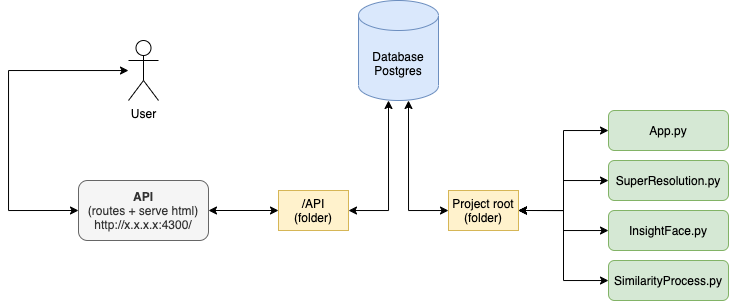
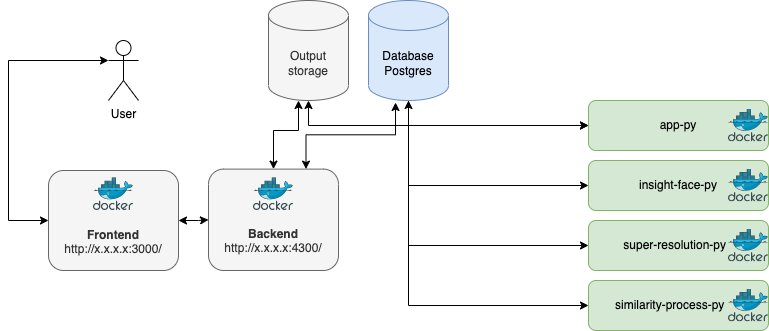
updating documentation

diff --git a/README.md b/README.md
@@ -57,26 +57,25 @@ Table of contents
     * [Storage configuration](#7-configure-storage)
     * [Run apps](#8-run)
 * [Update to the latest version](#updating-to-the-latest-version)
+* [Process drawing](#process-drawing)
+* [Project folder structure](#project-folder-structure)
+* [Python Apps](#python-apps)
+      * [App.py](#app)
+      * [StreamGrab.py](#streamgrab)
+      * [SuperResolution.py](#superresolution)
+      * [InsightFace.py](#insightface)
+      * [SimilarityProcess.py](#similarityprocess)
+* [Config ini](#config-ini)
 * [Installing manually](#installing-manually)
     * [Api side](#api-side)
     * [Build react front end](#build-react-front-end)
     * [Python side (Windows)](#python-side)
-* [Process drawing](#process-drawing)
-* [Project folder structure](#project-folder-structure)
-* [Python Apps](#python-apps)
-    * [App.py](#app)
-    * [StreamGrab.py](#streamgrab)
-    * [SuperResolution.py](#superresolution)
-    * [InsightFace.py](#insightface)
-    * [SimilarityProcess.py](#similarityprocess)
-* [Config ini](#config-ini)
 * [Multi node support](#multi-node-support)
 * [Cuda GPU Support](#cuda-gpu-support)
 * [Postgresql notes](#postgresql-notes)
 * [Openalpr notes](#openalpr-notes)
 * [Front end development](#front-end-development)
 * [Troubleshooting](#troubleshooting)
-* [Todo](#todo)
 * [Authors](#authors)
 * [License](#license)
 
@@ -84,7 +83,8 @@ Environment
 ============
 
 Everything can be installed on one server or to separate servers meaning that database is at server one, python
-application at server two and api hosting at server three.
+application at server two and api hosting at server three. Processes must have access to output storage containing 
+processed image result files.
 
 ![Environment](docs/environment.png)
 
@@ -173,88 +173,6 @@ docker-compose up
 ```
 
 
-
-Installing manually
-============
-
-Terminology for words like API side and Python side:
-
-* "API Side" is `/api` folder containing node api process `intelligence.js`.
-* "Python side" is `/python` folder containing different python processes.
-
-See [Project folder structure](#project-folder-structure)  for more details about folders.
-
-API side
------
-
-1. Go to `/api` folder and run `npm install`
-2. Install PostgreSQL server: https://www.postgresql.org/
-    * Accessing postgres you need to find tool like pgAdmin which comes with postgres, command line or some IDE having
-      db tools.
-3. Rename `.env_tpl` to `.env` and fill details.
-4. Run `intelligence-tasks.js` or with PM2 process manager `pm2 start intelligence-tasks.js`.
-5. Run `node intelligence.js` or with PM2 process manager `pm2 start intelligence.js -i 2`.
-6. Running these NodeJS scripts will create database and table structures, if you see error run it again.
-7. Go to `/front-end` folder and rename `.env_tpl` to `.env`.
-8. At `/front-end` run `npm start` so you have both api and front end running.
-9. Access `localhost:3000` if react app doesn't open browser window automatically.
-10. Outdated frontend user manual for old ui
-    version https://docs.google.com/document/d/1BwjXO0tUM9aemt1zNzofSY-DKeno321zeqpcmPI-wEw/edit?usp=sharing
-
-Build react front end
------
-
-1. Go to `/front-end`
-2. Check your `.env` REACT_APP_API_BASE_URL that it corresponds your machine ip address where node js api is running.
-3. Build react front end via running `npm run build`
-4. Copy/replace `/build` folder contents somewhere to serve build webpage if you want.
-
-Python side
------
-(Windows)
-
-1. Download Python 3.6 ( https://www.python.org/ftp/python/3.6.0/python-3.6.0-amd64.exe )
-    * Only tested to work with Python 3.6. Newer ones caused problems with packages when tested.
-2. Jump to `/python` folder
-3. Activate python virtual env.
-   ```shell script
-   .\venv\Scripts\activate.bat
-   ```
-4. Install dependencies `pip install -r requirements_windows.txt`
-5. Get models using these instruction https://github.com/norkator/open-intelligence/wiki/Models
-6. Download PostgreSQL server ( https://www.postgresql.org/ ) I am using version <b>11.6</b> but its also tested with
-   version 12. (if you didn't install at upper api section)
-7. Rename `config.ini.tpl` to `config.ini` and fill details.
-    * Config.ini content settings explained, see [Config ini](#config-ini)
-    * For multiple nodes, see [Multi node support](#multi-node-support))
-8. Ensure you have `Microsoft Visual C++ 2015 Redistributable (x64)` installed.
-    * This is needed by openALPR
-9. Separate camera and folder names with comma just like at base config template
-10. Run wanted python apps, see `Python Apps` section.
-
-It's critical to setup ini configuration right.
-
-
-Python side
------
-(Linux)
-
-1. Install required Python version.
-    ```shell script
-    sudo add-apt-repository ppa:deadsnakes/ppa
-    sudo apt-get install python3.6
-    virtualenv --python=/usr/bin/python3.6 ./
-   source ./bin/activate
-    ```
-2. Install dependencies `pip install -r requirements_linux.txt`
-3. Get models using these instruction https://github.com/norkator/open-intelligence/wiki/Models
-4. Download PostgreSQL server ( https://www.postgresql.org/ ) I am using version <b>11.6</b> but its also tested with
-   version 12. (if you didn't install at upper api section)
-5. Rename `config.ini.tpl` to `config.ini` and fill details.
-    * Config.ini content settings explained, see [Config ini](#config-ini)
-    * For multiple nodes, see [Multi node support](#multi-node-support))
-6. Separate camera and folder names with comma just like at base config template
-7. Run wanted python apps, see `Python Apps` section.
 
 Process drawing
 ============
@@ -367,6 +285,92 @@ cv2_imshow_enabled=True
 Other parameters are case specific.
 
 
+
+Installing manually
+============
+This is no longer recommended. Using docker method is much better.
+
+Terminology for words like API side and Python side:
+
+* "API Side" is `/api` folder containing node api process `intelligence.js`.
+* "Python side" is `/python` folder containing different python processes.
+
+See [Project folder structure](#project-folder-structure)  for more details about folders.
+
+API side
+-----
+
+1. Go to `/api` folder and run `npm install`
+2. Install PostgreSQL server: https://www.postgresql.org/
+    * Accessing postgres you need to find tool like pgAdmin which comes with postgres, command line or some IDE having
+      db tools.
+3. Rename `.env_tpl` to `.env` and fill details.
+4. Run `intelligence-tasks.js` or with PM2 process manager `pm2 start intelligence-tasks.js`.
+5. Run `node intelligence.js` or with PM2 process manager `pm2 start intelligence.js -i 2`.
+6. Running these NodeJS scripts will create database and table structures, if you see error run it again.
+7. Go to `/front-end` folder and rename `.env_tpl` to `.env`.
+8. At `/front-end` run `npm start` so you have both api and front end running.
+9. Access `localhost:3000` if react app doesn't open browser window automatically.
+10. Outdated frontend user manual for old ui
+    version https://docs.google.com/document/d/1BwjXO0tUM9aemt1zNzofSY-DKeno321zeqpcmPI-wEw/edit?usp=sharing
+
+Build react front end
+-----
+
+1. Go to `/front-end`
+2. Check your `.env` REACT_APP_API_BASE_URL that it corresponds your machine ip address where node js api is running.
+3. Build react front end via running `npm run build`
+4. Copy/replace `/build` folder contents somewhere to serve build webpage if you want.
+
+Python side
+-----
+(Windows)
+
+1. Download Python 3.6 ( https://www.python.org/ftp/python/3.6.0/python-3.6.0-amd64.exe )
+    * Only tested to work with Python 3.6. Newer ones caused problems with packages when tested.
+2. Jump to `/python` folder
+3. Activate python virtual env.
+   ```shell script
+   .\venv\Scripts\activate.bat
+   ```
+4. Install dependencies `pip install -r requirements_windows.txt`
+5. Get models using these instruction https://github.com/norkator/open-intelligence/wiki/Models
+6. Download PostgreSQL server ( https://www.postgresql.org/ ) I am using version <b>11.6</b> but its also tested with
+   version 12. (if you didn't install at upper api section)
+7. Rename `config.ini.tpl` to `config.ini` and fill details.
+    * Config.ini content settings explained, see [Config ini](#config-ini)
+    * For multiple nodes, see [Multi node support](#multi-node-support))
+8. Ensure you have `Microsoft Visual C++ 2015 Redistributable (x64)` installed.
+    * This is needed by openALPR
+9. Separate camera and folder names with comma just like at base config template
+10. Run wanted python apps, see `Python Apps` section.
+
+It's critical to setup ini configuration right.
+
+
+Python side
+-----
+(Linux)
+
+1. Install required Python version.
+    ```shell script
+    sudo add-apt-repository ppa:deadsnakes/ppa
+    sudo apt-get install python3.6
+    virtualenv --python=/usr/bin/python3.6 ./
+   source ./bin/activate
+    ```
+2. Install dependencies `pip install -r requirements_linux.txt`
+3. Get models using these instruction https://github.com/norkator/open-intelligence/wiki/Models
+4. Download PostgreSQL server ( https://www.postgresql.org/ ) I am using version <b>11.6</b> but its also tested with
+   version 12. (if you didn't install at upper api section)
+5. Rename `config.ini.tpl` to `config.ini` and fill details.
+    * Config.ini content settings explained, see [Config ini](#config-ini)
+    * For multiple nodes, see [Multi node support](#multi-node-support))
+6. Separate camera and folder names with comma just like at base config template
+7. Run wanted python apps, see `Python Apps` section.
+
+
+
 Multi node support
 ============
 Multi node support requires little bit more work to configure but it's doable. Follow instructions below.
@@ -421,7 +425,7 @@ Now works without any python site-package installation.
 
 Front end development
 ============
-There is separate Readme for this side so see more at `./front-end/README.md`  
+There is a separate readme file for this side so see more at `./front-end/README.md`  
 ![link](./front-end/README.md)
 
 
